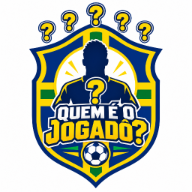
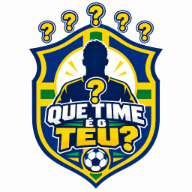
Rename game and preload player photos

diff --git a/web/regras.html b/web/regras.html
@@ -4,15 +4,15 @@
   <meta charset="utf-8">
   <meta name="viewport" content="width=device-width, initial-scale=1">
   <meta name="theme-color" content="#0b6338">
-  <meta name="description" content="Aprenda as regras do Quem é o jogadô?, quiz de futebol para adivinhar jogadores do Brasileirão Série A, e instale o jogo no celular.">
+  <meta name="description" content="Aprenda as regras do Que time é o teu?, quiz para descobrir os clubes dos jogadores do Brasileirão Série A, e instale o jogo no celular.">
   <meta name="keywords" content="quiz Brasileirão, jogo de futebol, adivinhar jogador, jogadores Brasileirão Série A, quiz futebol brasileiro">
   <meta property="og:type" content="website">
-  <meta property="og:title" content="Regras | Quem é o jogadô?">
-  <meta property="og:description" content="Descubra o time do jogador pela foto, nome, camisa e posição. Você tem três vidas e uma ajuda do VAR.">
+  <meta property="og:title" content="Regras | Que time é o teu?">
+  <meta property="og:description" content="Descubra o time do jogador pela foto, nome, camisa e posição. Você tem três vidas e um pulo.">
   <meta property="og:url" content="https://qj.barbaproductions.com/regras.html">
   <meta property="og:image" content="https://qj.barbaproductions.com/android-chrome-512x512.png">
   <meta http-equiv="Content-Security-Policy" content="default-src 'self'; style-src 'self' https://fonts.googleapis.com; font-src https://fonts.gstatic.com; script-src 'self'; img-src 'self'; base-uri 'self'">
-  <title>Regras do quiz do Brasileirão | Quem é o jogadô?</title>
+  <title>Regras do quiz do Brasileirão | Que time é o teu?</title>
   <link rel="canonical" href="https://qj.barbaproductions.com/regras.html">
   <link rel="icon" href="favicon.ico" sizes="any">
   <link rel="icon" type="image/png" sizes="32x32" href="favicon-32x32.png">
@@ -26,7 +26,7 @@
 </head>
 <body>
   <header class="topbar">
-    <a class="brand" href="index.html"><img src="assets/QJ_logo.png" alt="Quem é o jogadô?"><span>Quem é o jogadô?</span></a>
+    <a class="brand" href="index.html"><img src="assets/QTT_logo.png" alt="Que time é o teu?"><span>Que time é o teu?</span></a>
     <button class="menu-button" id="menu-button" type="button" aria-label="Abrir menu" aria-expanded="false">☰</button>
     <nav id="site-nav" aria-label="Navegação principal">
       <a href="index.html">Jogar</a>
@@ -38,7 +38,7 @@
 
   <main class="content-shell">
     <header class="page-hero">
-      <img src="assets/QJ_logo.png" alt="Logo Quem é o jogadô?">
+      <img src="assets/QTT_logo.png" alt="Logo Que time é o teu?">
       <div>
         <p class="eyebrow">Quiz do Brasileirão Série A</p>
         <h1>Regras do jogo</h1>
@@ -53,7 +53,7 @@
         <li>Escolha o time correto entre quatro alternativas.</li>
         <li>Cada acerto vale um ponto e leva você para a próxima rodada.</li>
         <li>Você começa com três vidas e perde uma bola a cada erro. A terceira resposta errada encerra a partida.</li>
-        <li>Use a tela do VAR uma vez por partida para pular uma pergunta sem perder vida.</li>
+        <li>Use a chuteira uma vez por partida para pular uma pergunta sem perder vida.</li>
         <li>O ranking classifica primeiro pela pontuação e depois pelo menor tempo.</li>
         <li>Quem fizer mais de 500 pontos entra para o Hall da Fama.</li>
       </ol>
@@ -61,7 +61,7 @@
 
     <section class="content-band alt">
       <h2>Desafie seu conhecimento</h2>
-      <p>Quem é o jogadô? é um jogo de futebol gratuito sobre o Brasileirão Série A. O desafio combina jogadores, clubes, posições e camisas para testar memória e velocidade em rodadas consecutivas.</p>
+      <p>Que time é o teu? é um jogo de futebol gratuito sobre o Brasileirão Série A. O desafio combina fotos, jogadores, clubes, posições e camisas para testar memória e velocidade em rodadas consecutivas.</p>
       <a class="button button-primary" href="index.html">Jogar agora</a>
     </section>
 
@@ -80,7 +80,7 @@
     </section>
   </main>
 
-  <footer><span>Quem é o jogadô? · Barba Productions</span><a href="https://www.instagram.com/barba.productions/" target="_blank" rel="noopener noreferrer">@barbaproductions</a></footer>
+  <footer><span>Que time é o teu? · Barba Productions</span><a href="https://www.instagram.com/barba.productions/" target="_blank" rel="noopener noreferrer">@barbaproductions</a></footer>
   <script type="module" src="js/site.js"></script>
 </body>
 </html>

diff --git a/web/js/game.js b/web/js/game.js
@@ -78,18 +78,36 @@ function setOptionsDisabled(disabled) {
   });
 }
 
-function setRoundQueue(rounds) {
+function preloadRoundImage(round, priority = 'low') {
+  if (preloadedImages.has(round.id)) return preloadedImages.get(round.id).ready;
+  const image = new Image();
+  image.decoding = 'async';
+  image.fetchPriority = priority;
+  const ready = new Promise((resolve) => {
+    image.addEventListener('load', async () => {
+      try {
+        await image.decode();
+      } catch {
+        // A loaded image is still usable when explicit decoding is unavailable.
+      }
+      resolve(image);
+    }, {once: true});
+    image.addEventListener('error', () => resolve(null), {once: true});
+  });
+  preloadedImages.set(round.id, {image, ready});
+  image.src = round.imageUrl;
+  return ready;
+}
+
+async function setRoundQueue(rounds) {
   roundQueue = rounds.filter(Boolean);
   const queuedIds = new Set(roundQueue.map((round) => round.id));
   preloadedImages.forEach((_, roundId) => {
     if (!queuedIds.has(roundId)) preloadedImages.delete(roundId);
   });
-  roundQueue.forEach((round) => {
-    if (preloadedImages.has(round.id)) return;
-    const image = new Image();
-    image.src = round.imageUrl;
-    preloadedImages.set(round.id, image);
-  });
+  if (!roundQueue.length) return;
+  await preloadRoundImage(roundQueue[0], 'high');
+  roundQueue.slice(1).forEach((round) => preloadRoundImage(round));
 }
 
 function showRound(round) {
@@ -105,7 +123,7 @@ function showRound(round) {
   elements.image.hidden = false;
   elements.loading.hidden = true;
   elements.image.alt = `Foto de ${round.clue.playerName}`;
-  elements.image.src = round.imageUrl;
+  elements.image.src = preloadedImages.get(round.id)?.image.src || round.imageUrl;
 
   round.options.forEach((option) => {
     const button = document.createElement('button');
@@ -153,9 +171,9 @@ async function startGame() {
     elements.score.textContent = String(currentScore);
     elements.lives.textContent = String(currentLives);
     elements.skips.textContent = String(skipsRemaining);
-    startTimer();
-    setRoundQueue(game.rounds || [game.round]);
+    await setRoundQueue(game.rounds || [game.round]);
     showRound(roundQueue[0]);
+    startTimer();
   } catch (error) {
     elements.loading.textContent = 'O vestiário ainda não abriu.';
     elements.status.textContent = error.message;
@@ -168,7 +186,7 @@ async function playRound({optionId = '', action = 'answer'} = {}) {
   awaitingAnswer = true;
   setOptionsDisabled(true);
   elements.skip.disabled = true;
-  elements.status.textContent = action === 'skip' ? 'Chamando o VAR...' : 'Conferindo no VAR...';
+  elements.status.textContent = action === 'skip' ? 'Pulando pergunta...' : 'Conferindo o lance...';
 
   try {
     const result = await api('answerRound', {
@@ -190,11 +208,14 @@ async function playRound({optionId = '', action = 'answer'} = {}) {
     });
 
     if (!result.gameOver) {
-      if (result.skipped) elements.status.textContent = 'VAR usado. Próxima pergunta!';
+      if (result.skipped) elements.status.textContent = 'Pulo usado. Próxima pergunta!';
       else if (result.correct) elements.status.textContent = 'Gol! Time correto.';
       else elements.status.textContent = `Quase! Você ainda tem ${currentLives} vida(s).`;
-      setRoundQueue(result.rounds || [result.nextRound]);
-      window.setTimeout(() => showRound(roundQueue[0]), 1100);
+      await Promise.all([
+        setRoundQueue(result.rounds || [result.nextRound]),
+        new Promise((resolve) => window.setTimeout(resolve, 1100)),
+      ]);
+      showRound(roundQueue[0]);
     } else {
       stopTimer();
       updateTimer();
@@ -241,8 +262,8 @@ async function submitScore(event) {
 }
 
 async function shareResult() {
-  const text = `Fiz ${currentScore} acerto(s) em ${formatTime(elapsedMs)} no Quem é o jogadô? Você consegue bater?`;
-  const shareData = {title: 'Quem é o jogadô?', text, url: window.location.href};
+  const text = `Fiz ${currentScore} acerto(s) em ${formatTime(elapsedMs)} no Que time é o teu? Você consegue bater?`;
+  const shareData = {title: 'Que time é o teu?', text, url: window.location.href};
   try {
     if (navigator.share) await navigator.share(shareData);
     else {

diff --git a/web/index.html b/web/index.html
@@ -4,9 +4,9 @@
   <meta charset="utf-8">
   <meta name="viewport" content="width=device-width, initial-scale=1">
   <meta name="theme-color" content="#0b6338">
-  <meta name="description" content="Descubra o time dos jogadores do Brasileirão Série A usando foto, nome, camisa e posição. Você tem três vidas e uma ajuda do VAR.">
+  <meta name="description" content="Descubra o time dos jogadores do Brasileirão Série A usando foto, nome, camisa e posição. Você tem três vidas e um pulo.">
   <meta http-equiv="Content-Security-Policy" content="default-src 'self'; img-src 'self' https://southamerica-east1-quemeojogado.cloudfunctions.net http://127.0.0.1:5001 data:; connect-src 'self' https://southamerica-east1-quemeojogado.cloudfunctions.net http://127.0.0.1:5001; style-src 'self' https://fonts.googleapis.com; font-src https://fonts.gstatic.com; script-src 'self'; base-uri 'self'; form-action 'self'">
-  <title>Quem é o jogadô? | Quiz de jogadores do Brasileirão</title>
+  <title>Que time é o teu? | Quiz de jogadores do Brasileirão</title>
   <link rel="canonical" href="https://qj.barbaproductions.com/">
   <link rel="icon" href="favicon.ico" sizes="any">
   <link rel="icon" type="image/png" sizes="32x32" href="favicon-32x32.png">
@@ -20,9 +20,9 @@
 </head>
 <body>
   <header class="topbar">
-    <a class="brand" href="index.html" aria-label="Quem é o jogadô? - Jogar">
-      <img src="assets/QJ_logo.png" alt="Quem é o jogadô?">
-      <span>Quem é o jogadô?</span>
+    <a class="brand" href="index.html" aria-label="Que time é o teu? - Jogar">
+      <img src="assets/QTT_logo.png" alt="Que time é o teu?">
+      <span>Que time é o teu?</span>
     </a>
     <button class="menu-button" id="menu-button" type="button" aria-label="Abrir menu" aria-expanded="false">☰</button>
     <nav id="site-nav" aria-label="Navegação principal">
@@ -37,7 +37,7 @@
     <section class="score-strip" aria-label="Placar da partida">
       <div><span class="score-label">Acertos</span><strong id="score">0</strong></div>
       <div class="resource-counter"><span class="resource-icon" aria-hidden="true">⚽</span><span class="score-label">Vidas</span><strong id="lives">3</strong></div>
-      <div class="resource-counter"><span class="var-icon" aria-hidden="true">VAR</span><span class="score-label">Pulos</span><strong id="skips">1</strong></div>
+      <div class="resource-counter"><span class="boot-icon" aria-hidden="true">👟</span><span class="score-label">Pulos</span><strong id="skips">1</strong></div>
       <div><span class="score-label">Tempo</span><strong id="timer">00:00</strong></div>
     </section>
 
@@ -56,7 +56,7 @@
       </div>
 
       <div class="options" id="options" aria-label="Alternativas"></div>
-      <button class="skip-button" id="skip-button" type="button"><span class="var-icon" aria-hidden="true">VAR</span>Pular pergunta</button>
+      <button class="skip-button" id="skip-button" type="button"><span class="boot-icon" aria-hidden="true">👟</span>Pular pergunta</button>
       <p class="status-message" id="status-message" role="status"></p>
       <button class="button button-secondary" id="retry-button" type="button" hidden>Tentar novamente</button>
     </section>
@@ -81,7 +81,7 @@
   </main>
 
   <footer>
-    <span>Quem é o jogadô? · Barba Productions</span>
+    <span>Que time é o teu? · Barba Productions</span>
     <a href="https://www.instagram.com/barba.productions/" target="_blank" rel="noopener noreferrer">@barbaproductions</a>
   </footer>
 

diff --git a/web/hall-of-fame.html b/web/hall-of-fame.html
@@ -4,9 +4,9 @@
   <meta charset="utf-8">
   <meta name="viewport" content="width=device-width, initial-scale=1">
   <meta name="theme-color" content="#0b6338">
-  <meta name="description" content="Conheça o Hall da Fama do Quem é o jogadô?, reservado aos especialistas que ultrapassam 500 pontos no quiz do Brasileirão.">
+  <meta name="description" content="Conheça o Hall da Fama do Que time é o teu?, reservado aos especialistas que ultrapassam 500 pontos no quiz do Brasileirão.">
   <meta http-equiv="Content-Security-Policy" content="default-src 'self'; style-src 'self' https://fonts.googleapis.com; font-src https://fonts.gstatic.com; script-src 'self'; img-src 'self'; base-uri 'self'">
-  <title>Hall da Fama | Quem é o jogadô?</title>
+  <title>Hall da Fama | Que time é o teu?</title>
   <link rel="canonical" href="https://qj.barbaproductions.com/hall-of-fame.html">
   <link rel="icon" href="favicon.ico" sizes="any">
   <link rel="icon" type="image/png" sizes="32x32" href="favicon-32x32.png">
@@ -20,7 +20,7 @@
 </head>
 <body>
   <header class="topbar">
-    <a class="brand" href="index.html"><img src="assets/QJ_logo.png" alt="Quem é o jogadô?"><span>Quem é o jogadô?</span></a>
+    <a class="brand" href="index.html"><img src="assets/QTT_logo.png" alt="Que time é o teu?"><span>Que time é o teu?</span></a>
     <button class="menu-button" id="menu-button" type="button" aria-label="Abrir menu" aria-expanded="false">☰</button>
     <nav id="site-nav" aria-label="Navegação principal">
       <a href="index.html">Jogar</a>
@@ -32,7 +32,7 @@
 
   <main class="content-shell">
     <header class="page-hero">
-      <img src="assets/QJ_logo.png" alt="Logo Quem é o jogadô?">
+      <img src="assets/QTT_logo.png" alt="Logo Que time é o teu?">
       <div>
         <p class="eyebrow">Para entrar na história</p>
         <h1>Hall da Fama</h1>
@@ -49,12 +49,12 @@
 
     <section class="content-band">
       <h2>Seu nome pode ser o primeiro</h2>
-      <p>Seja o primeiro a colocar seu nome na história do "Quem é o jogadô?"</p>
+      <p>Seja o primeiro a colocar seu nome na história do "Que time é o teu?"</p>
       <a class="button button-primary" href="index.html">Começar o desafio</a>
     </section>
   </main>
 
-  <footer><span>Quem é o jogadô? · Barba Productions</span><a href="https://www.instagram.com/barba.productions/" target="_blank" rel="noopener noreferrer">@barbaproductions</a></footer>
+  <footer><span>Que time é o teu? · Barba Productions</span><a href="https://www.instagram.com/barba.productions/" target="_blank" rel="noopener noreferrer">@barbaproductions</a></footer>
   <script type="module" src="js/site.js"></script>
 </body>
 </html>

diff --git a/web/ranking.html b/web/ranking.html
@@ -4,9 +4,9 @@
   <meta charset="utf-8">
   <meta name="viewport" content="width=device-width, initial-scale=1">
   <meta name="theme-color" content="#0b6338">
-  <meta name="description" content="Confira o ranking dos melhores no quiz Quem é o jogadô? e dispute o menor tempo entre os especialistas do Brasileirão.">
+  <meta name="description" content="Confira o ranking dos melhores no quiz Que time é o teu? e dispute o menor tempo entre os especialistas do Brasileirão.">
   <meta http-equiv="Content-Security-Policy" content="default-src 'self'; connect-src 'self' https://southamerica-east1-quemeojogado.cloudfunctions.net http://127.0.0.1:5001; style-src 'self' https://fonts.googleapis.com; font-src https://fonts.gstatic.com; script-src 'self'; img-src 'self'; base-uri 'self'">
-  <title>Ranking dos "especialistas" · Quem é o jogadô?</title>
+  <title>Ranking dos "especialistas" · Que time é o teu?</title>
   <link rel="canonical" href="https://qj.barbaproductions.com/ranking.html">
   <link rel="icon" href="favicon.ico" sizes="any">
   <link rel="icon" type="image/png" sizes="32x32" href="favicon-32x32.png">
@@ -20,7 +20,7 @@
 </head>
 <body>
   <header class="topbar">
-    <a class="brand" href="index.html"><img src="assets/QJ_logo.png" alt="Quem é o jogadô?"><span>Quem é o jogadô?</span></a>
+    <a class="brand" href="index.html"><img src="assets/QTT_logo.png" alt="Que time é o teu?"><span>Que time é o teu?</span></a>
     <button class="menu-button" id="menu-button" type="button" aria-label="Abrir menu" aria-expanded="false">☰</button>
     <nav id="site-nav" aria-label="Navegação principal">
       <a href="index.html">Jogar</a>
@@ -45,7 +45,7 @@
     <a class="button button-primary" href="index.html">Entrar em campo</a>
   </main>
 
-  <footer><span>Quem é o jogadô? · Barba Productions</span><a href="https://www.instagram.com/barba.productions/" target="_blank" rel="noopener noreferrer">@barbaproductions</a></footer>
+  <footer><span>Que time é o teu? · Barba Productions</span><a href="https://www.instagram.com/barba.productions/" target="_blank" rel="noopener noreferrer">@barbaproductions</a></footer>
   <script type="module" src="js/ranking.js"></script>
 </body>
 </html>

diff --git a/web/css/style.css b/web/css/style.css
@@ -67,7 +67,7 @@ nav a:hover, nav a.active { color: var(--yellow); border-color: var(--yellow); }
 .score-label { text-transform: uppercase; font-weight: 700; font-size: .78rem; }
 .score-strip strong { font-family: 'Barlow Condensed', sans-serif; font-size: 2rem; }
 .resource-icon { font-size: 1.5rem; line-height: 1; }
-.var-icon { min-width: 35px; min-height: 24px; display: inline-grid; place-items: center; padding: 2px 4px; color: var(--yellow); border: 2px solid currentColor; font-family: 'Barlow Condensed', sans-serif; font-size: .8rem; font-weight: 800; line-height: 1; }
+.boot-icon { display: inline-grid; place-items: center; width: 34px; height: 28px; font-size: 1.45rem; line-height: 1; filter: saturate(.9); }
 
 .game-panel { margin-top: 18px; display: grid; grid-template-columns: minmax(250px, .85fr) minmax(320px, 1.15fr); grid-template-areas: 'question stage' 'options stage' 'skip stage' 'status stage'; gap: 16px 30px; padding: clamp(22px, 4vw, 42px); background: rgba(255,255,255,.94); border: 1px solid var(--line); box-shadow: var(--shadow); }
 .question-block { grid-area: question; text-align: left; }
@@ -88,7 +88,7 @@ h1 { margin: 0; color: var(--blue); font-size: clamp(2.4rem, 7vw, 4.6rem); line-
 .option.wrong { color: var(--white); border-color: var(--red); background: var(--red); }
 .status-message { grid-area: status; min-height: 24px; margin: 0; font-weight: 700; }
 .skip-button { grid-area: skip; min-height: 48px; display: inline-flex; align-items: center; justify-content: center; gap: 10px; padding: 8px 14px; color: var(--blue); background: #fffbea; border: 2px solid var(--yellow); font-weight: 800; cursor: pointer; }
-.skip-button .var-icon { color: var(--blue); }
+.skip-button .boot-icon { transform: rotate(-8deg); }
 .skip-button:disabled { opacity: .45; cursor: default; }
 
 .button { min-height: 46px; display: inline-flex; align-items: center; justify-content: center; padding: 10px 20px; border: 2px solid transparent; border-radius: 3px; font-weight: 800; text-decoration: none; cursor: pointer; }

diff --git a/web/sw.js b/web/sw.js
@@ -1,4 +1,4 @@
-const CACHE_NAME = 'quemeojogado-v5';
+const CACHE_NAME = 'que-time-e-o-teu-v6';
 const STATIC_FILES = [
   './',
   './index.html',
@@ -10,7 +10,7 @@ const STATIC_FILES = [
   './js/game.js',
   './js/ranking.js',
   './js/site.js',
-  './assets/QJ_logo.png',
+  './assets/QTT_logo.png',
   './assets/brasileirao-placeholder.svg',
   './manifest.webmanifest',
   './favicon.ico',

diff --git a/README.md b/README.md
@@ -1,6 +1,6 @@
-# Quem é o jogadô?
+# Que time é o teu?
 
-Frontend público do jogo de adivinhação de jogadores do Brasileirão Série A.
+Frontend público do jogo de identificação dos times de jogadores do Brasileirão Série A.
 A aplicação é uma PWA estática publicada pelo GitHub Pages em
 <https://qj.barbaproductions.com>.
 
